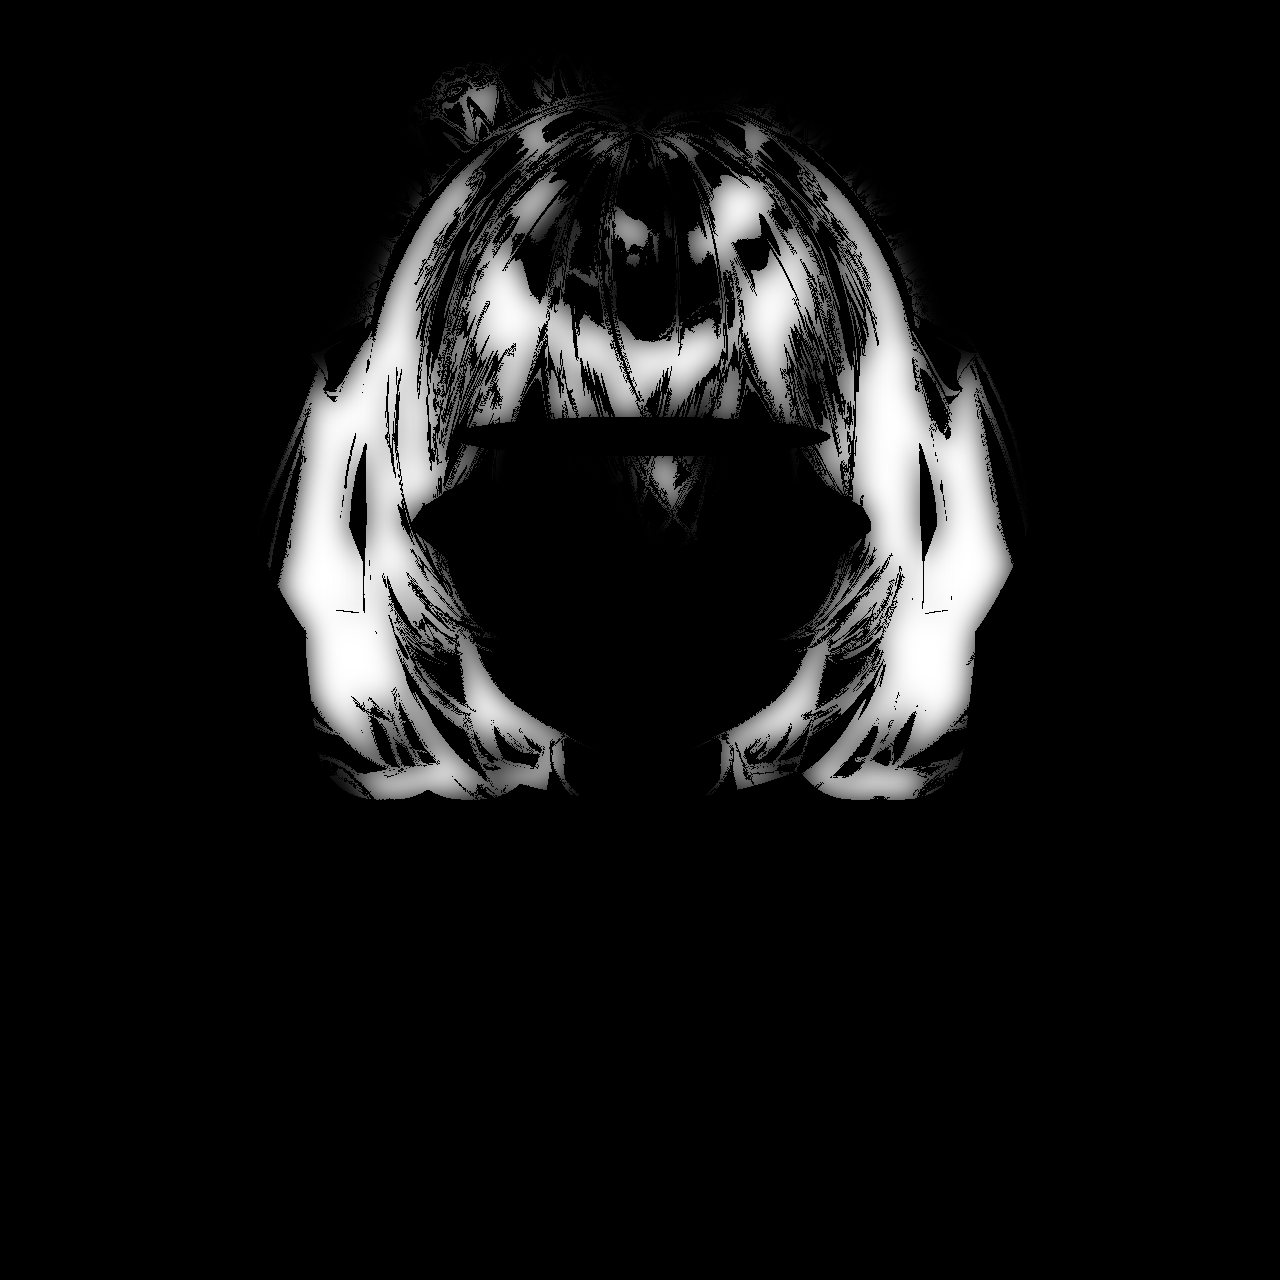
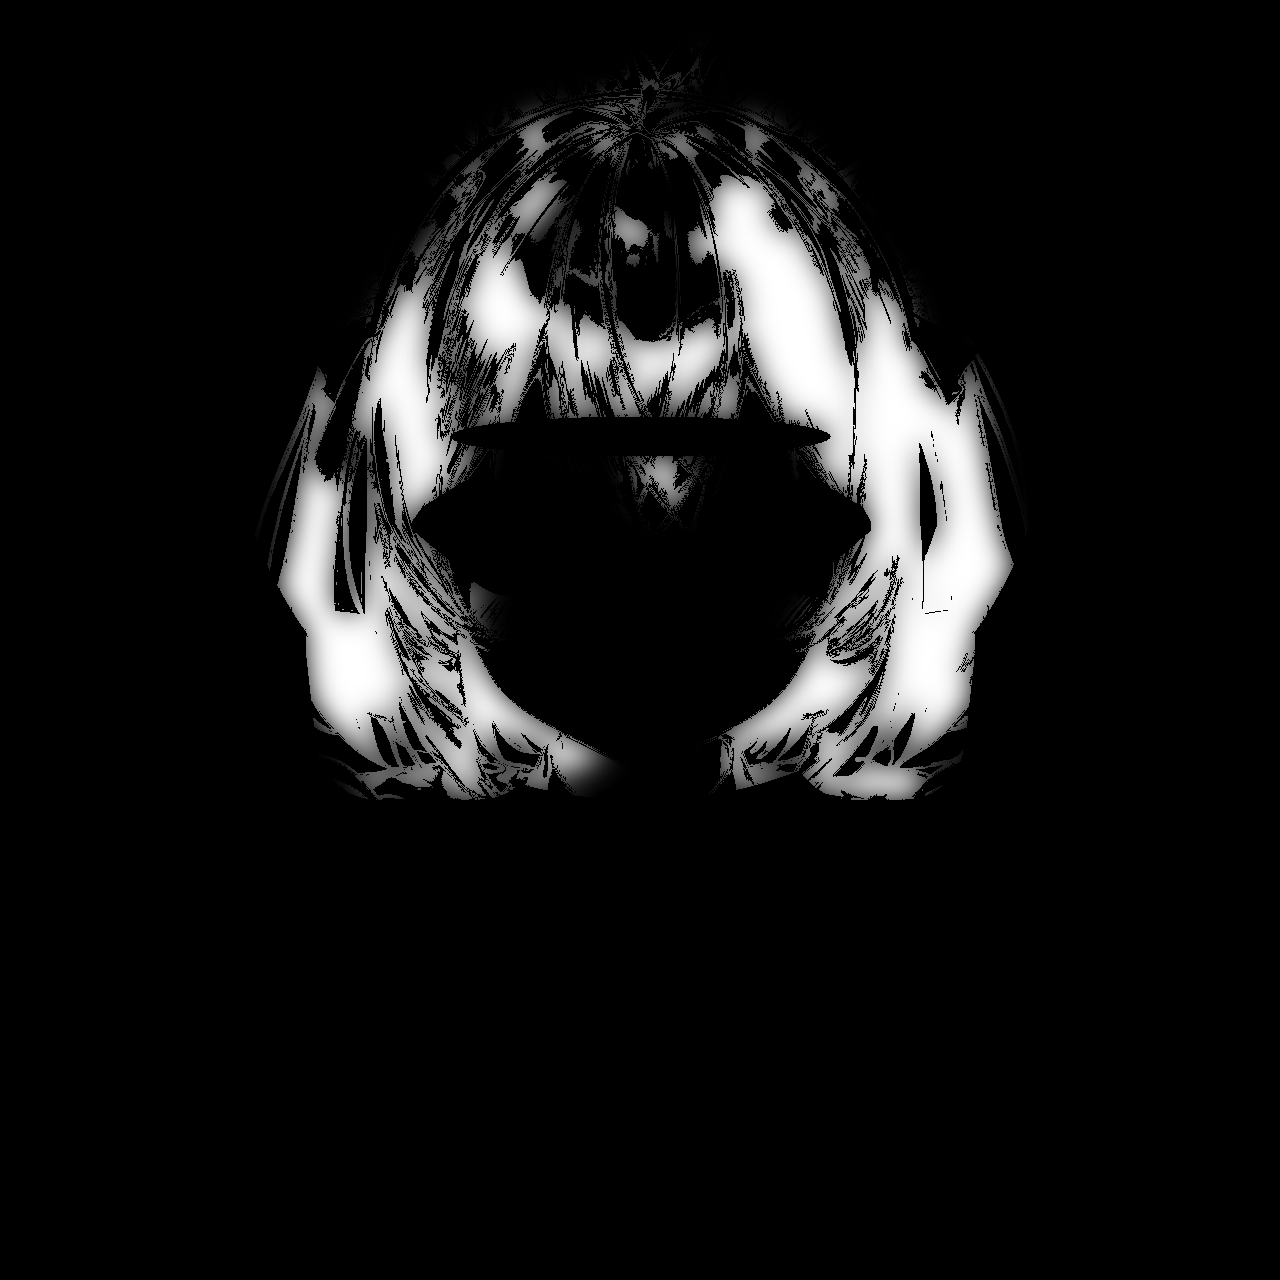
Tone the nose highlight down in the mesh face
The decomposed highlight is a flat white blob without the glow the original
illustration has, so it sat on her face as a white patch. Blend it at 55%.

Claude-Session: https://claude.ai/code/session_01ANqBT3e2MfHPakxRsm8wV9

diff --git a/avatar/mesh/build/build_mesh_source.py b/avatar/mesh/build/build_mesh_source.py
@@ -13,19 +13,21 @@ for l in m["layers"]:
     if f.startswith("tail") or f.startswith("ears") or f == "mouth.png":
         continue
     im = Image.open(L + f).convert("RGBA")
+    if f == "nose.png":   # the decomposed highlight is a flat white blob; the original has a soft glow
+        t = np.array(im); t[:, :, 3] = (t[:, :, 3] * 0.55).astype(np.uint8); im = Image.fromarray(t, "RGBA")
     c = Image.new("RGBA", (W, H), (0, 0, 0, 0)); c.paste(im, (l.get("x", 0), l.get("y", 0)))
     out = Image.alpha_composite(out, c)
 a = np.array(out)
 a[(a[:, :, 3] > 0) & (a[:, :, 3] < 24)] = 0
-Image.fromarray(a, "RGBA").save("input/shiro_mesh_nomouth.png")
+Image.fromarray(a, "RGBA").save("input/shiro_mesh_nomouth2.png")
 print("source ok")
 
 # 2. rig: nose region covers the whole highlight; mouth area a bit larger for the sprite
 rig = json.load(open("projects/shiro/rig.draft.json"))
 rig["face"]["nose"] = {"cx": 640, "cy": 592, "rx": 52, "ry": 34}
 rig["mouth"]["area"] = {"cx": 642, "cy": 692, "rx": 62, "ry": 38, "angle": 0.0}
-os.makedirs("projects/shiromo_draft", exist_ok=True)
-json.dump(rig, open("projects/shiromo_draft/rig.draft.json", "w"), indent=2)
+os.makedirs("projects/shiromo2_draft", exist_ok=True)
+json.dump(rig, open("projects/shiromo2_draft/rig.draft.json", "w"), indent=2)
 
 # 3. the mouth sprite: the layered avatar's own mouth drawing, cropped with a margin
 mouth = np.array(Image.open(L + "mouth.png").convert("RGBA"))

diff --git a/avatar/mesh/README.md b/avatar/mesh/README.md
@@ -44,6 +44,12 @@
   엔진 자체의 입은 다른 화풍이라 말을 시작하는 순간 다른 입으로 바뀌어 보였다. 입은 메시용 원본에서 빼고
   `built/sprites/mouth_a.png` 로 따로 그린다. 말하는 동안은 음량으로 0.25~1.2배, 아닐 때는 1배(표정에 따라 조금 더).
 
+## 그림 쪽 손질
+
+- 코 하이라이트(`nose.png`)는 투명도 55% 로 합쳤다. See-through 가 분해한 것은 원본의 분홍빛 번짐이 빠진
+  밋밋한 흰 덩어리라 얼굴 위에 하얗게 떠 보였다. 값은 `build/build_mesh_source.py` 의 `0.55`.
+  (기존 레이어 방식의 `layers/nose.png` 는 그대로다.)
+
 ## 알려진 한계
 
 - 입은 모음별 그림이 없다. 한 장을 세로로 스케일할 뿐이다.
